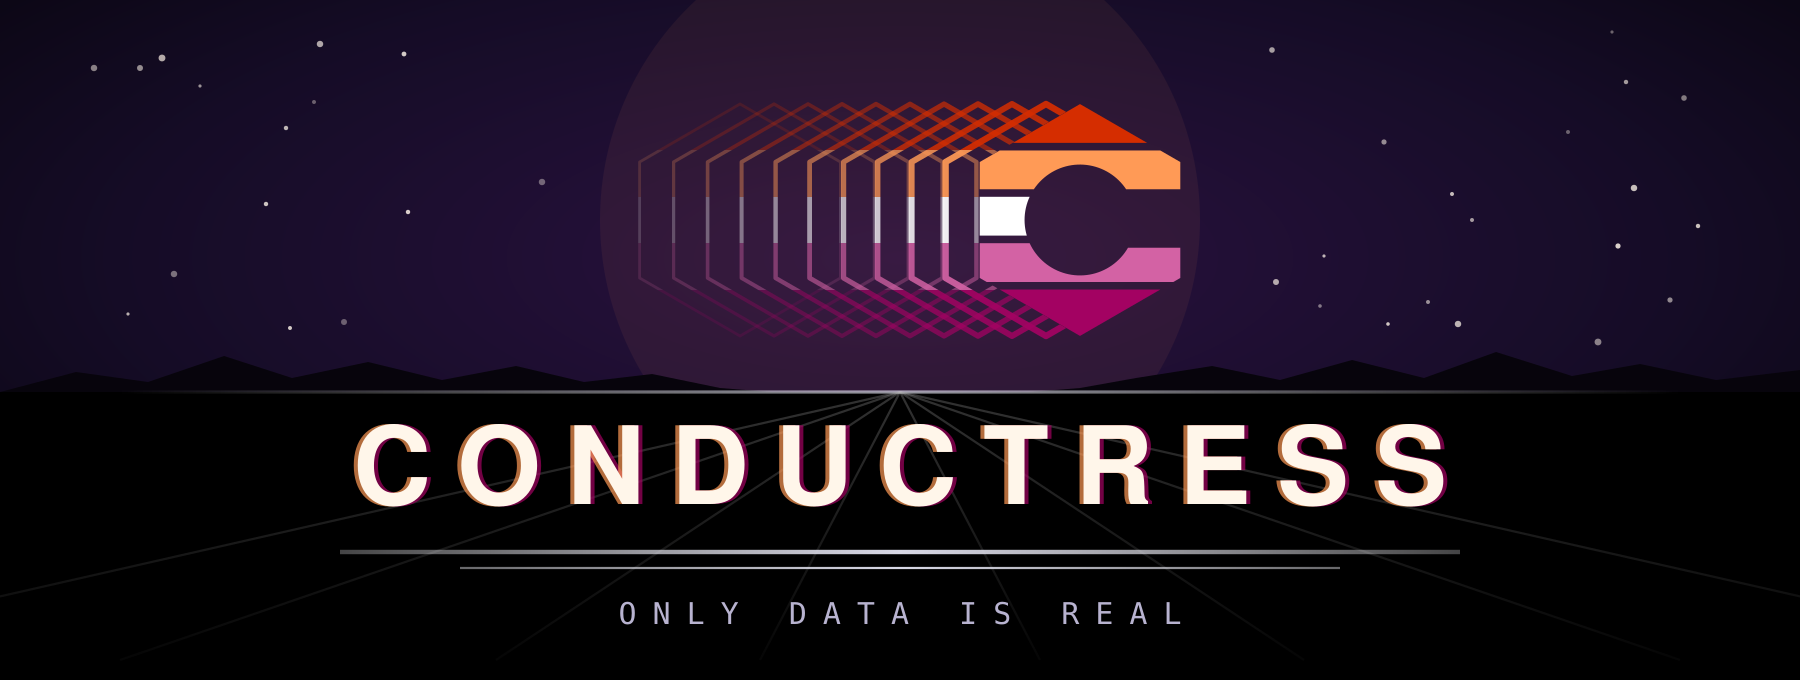
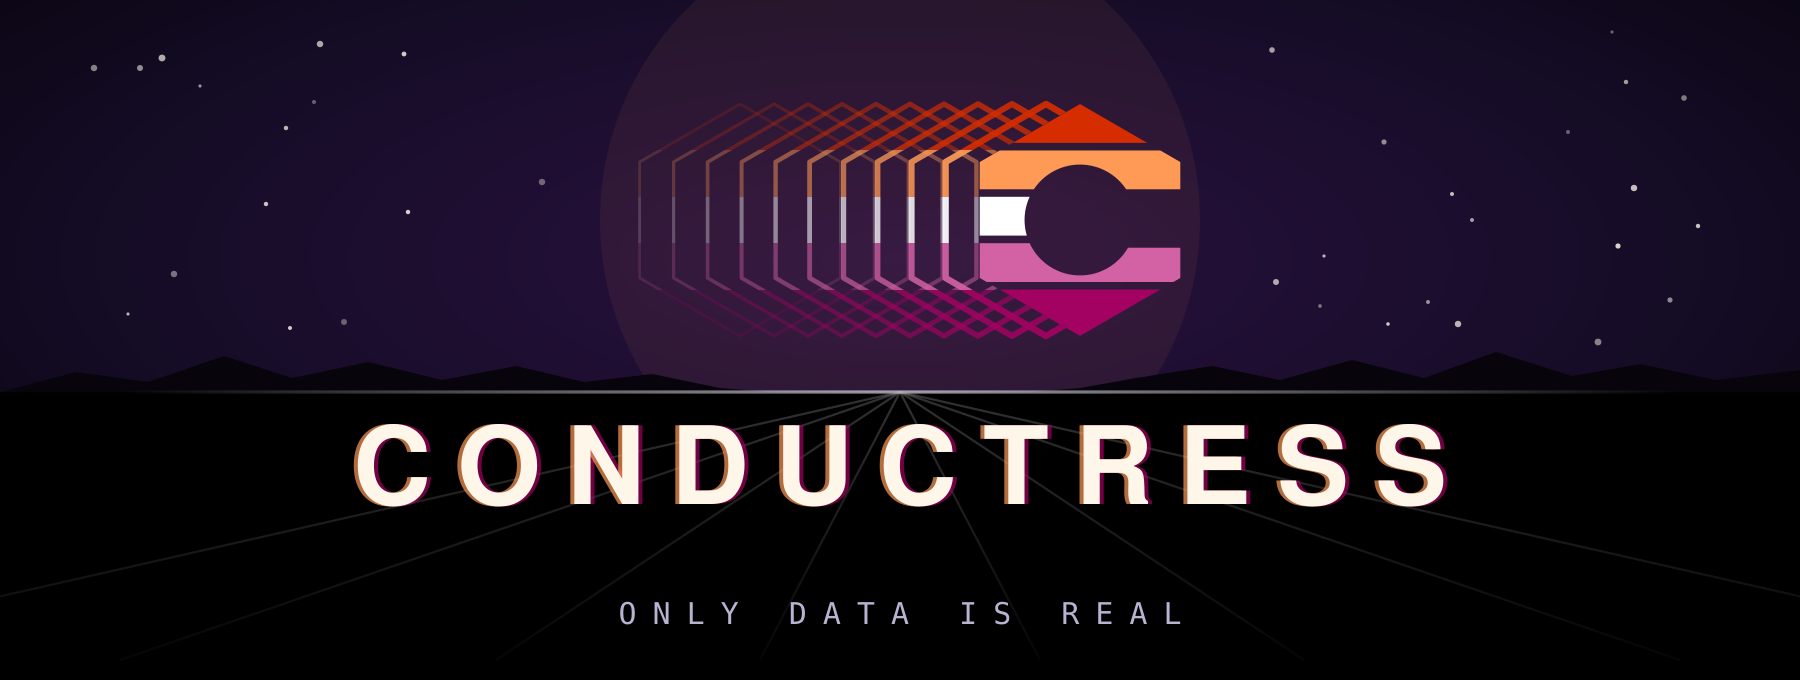
brand: drop the double rule from the hero and the sign-on
Over the grid horizon the two rule lines under the wordmark covered the
scene. They stay in the transparent, horizontal and one-colour lockups,
where there is no scene behind them. The sign-on loses its rule-wipe beat
at 4.10s (no score cue depended on it) so its resting frame still matches
the hero.

Changed region(s): [[0.1867, 0.8029, 0.8089, 0.8338]]

diff --git a/brand/motion/conductress-signon.html b/brand/motion/conductress-signon.html
@@ -16,7 +16,8 @@
              bells replace v1's white flash + drum kick.
        1.80  the C's seven stripes fill bottom-up like a VU meter, one tick each
        2.70  CONDUCTRESS slams in letter by letter (scale 3 -> 1, chromatic split -> converge)
-       4.10  double rule wipes outward from centre; subtitle types with a block cursor
+       4.10  subtitle types with a block cursor (the double rule was dropped: over the grid it
+             covered the scene; the static hero matches)
        5.60  one scanline flicker (CRT overlay only), then hold.  REPLAY button.
 
      AUDIO: synthesised live in WebAudio, five scores selectable before START (COSMOS default).
@@ -98,8 +99,6 @@
   #word .g:nth-child(13){animation-delay:3.90s}
   #word .r,#word .b{animation-name:split;animation-duration:.55s;animation-timing-function:ease-out;animation-delay:3.95s}
 
-  #rule1{transform-origin:450px 276px;animation-name:wipe;animation-duration:.5s;animation-timing-function:cubic-bezier(.2,.9,.2,1);animation-delay:4.10s}
-  #rule2{transform-origin:450px 284px;animation-name:wipe;animation-duration:.5s;animation-timing-function:cubic-bezier(.2,.9,.2,1);animation-delay:4.22s}
   #sub  {animation-name:typein;animation-duration:1.15s;animation-timing-function:steps(17,end);animation-delay:4.45s}
   #cursor{animation-name:typecur,blink;animation-duration:1.15s,.5s;animation-timing-function:steps(17,end),steps(1,end);animation-delay:4.45s,5.6s;animation-iteration-count:1,infinite;animation-fill-mode:forwards,none}
   #scan,#vignette{display:none}
@@ -340,8 +339,6 @@
   </g>
 
   <g id="subtitle">
-    <line id="rule1" class="anim" x1="170" y1="276" x2="730" y2="276" stroke="url(#ruleg)" stroke-width="2.2"/>
-    <line id="rule2" class="anim" x1="230" y1="284" x2="670" y2="284" stroke="url(#ruleg)" stroke-width="1.1"/>
     <text id="sub" class="anim" x="450" y="312" text-anchor="middle" font-family="'SF Mono',Menlo,Consolas,monospace" font-size="15" letter-spacing="8" fill="#c9a86e">ONLY DATA IS REAL</text>
     <rect id="cursor" class="anim" x="311" y="299" width="10" height="16" fill="#ffc94a" opacity="0"/>
   </g>

diff --git a/brand/tools/build.py b/brand/tools/build.py
@@ -469,7 +469,7 @@ def wordmark_group(name: str, p: str, word_d: str) -> str:
   </g>"""
 
 
-def subtitle_group(name: str, p: str, sub_d: str) -> str:
+def subtitle_group(name: str, p: str, sub_d: str, rules: bool = True) -> str:
     pal = PALETTES[name]
     if pal["kind"] == "mono":
         c = pal["color"]
@@ -479,9 +479,11 @@ def subtitle_group(name: str, p: str, sub_d: str) -> str:
     <line x1="290" y1="284" x2="610" y2="284" stroke="{c}" stroke-width="1.1"/>
     <path d="{sub_d}" fill="{c}"/>
   </g>"""
-    return f"""  <g id="subtitle">
+    # the hero omits the rules: over the grid horizon they cover the scene
+    rule_lines = "" if not rules else f"""
     <line x1="170" y1="276" x2="730" y2="276" stroke="url(#{p}-rule)" stroke-width="2.2"/>
-    <line x1="230" y1="284" x2="670" y2="284" stroke="url(#{p}-rule)" stroke-width="1.1"/>
+    <line x1="230" y1="284" x2="670" y2="284" stroke="url(#{p}-rule)" stroke-width="1.1"/>"""
+    return f"""  <g id="subtitle">{rule_lines}
     <path d="{sub_d}" fill="{pal['subtitle']}"/>
   </g>"""
 
@@ -549,7 +551,7 @@ def lockup_svg(name: str, opaque: bool, word_d: str, sub_d: str, trail: bool = T
 
 {wordmark_group(name, p, word_d)}
 
-{subtitle_group(name, p, sub_d)}
+{subtitle_group(name, p, sub_d, rules=not opaque)}
 </svg>
 """
 

diff --git a/brand/README.md b/brand/README.md
@@ -187,8 +187,11 @@ outlines; if you must set it live, use Helvetica Neue Bold, Helvetica Bold, or
 Arial Bold with the same tracking.
 
 The subtitle is ONLY DATA IS REAL in DejaVu Sans Mono at 15 units with 8 units
-of letter-spacing, gold, under a two-line rule that fades out at both ends. Any
-monospace face is acceptable when set live.
+of letter-spacing, gold. In the transparent lockups it sits under a two-line
+rule that fades out at both ends (or starts at the text edge, in the
+horizontal lockup). The hero and the sign-on carry no rule: over the grid
+horizon the lines covered the scene, and the subtitle holds its place without
+them. Any monospace face is acceptable when set live.
 
 The lockup does not use the mark in place of the letter C in the wordmark.
 That was tried; the wordmark's C stays a letter.
@@ -215,8 +218,8 @@ browser and PRESS START (browsers require a click before audio).
 The beats: the grid horizon draws itself from the vanishing point; the trail
 screams in from the left and the C snaps into place with a flare; the stripes
 fill bottom-up like a VU meter; CONDUCTRESS slams in letter by letter with the
-chromatic split converging to its resting fringe; the rule wipes and the
-subtitle types itself. The resting frame is the hero lockup.
+chromatic split converging to its resting fringe; the subtitle types itself.
+The resting frame is the hero.
 
 The score is synthesised live in WebAudio. The default is **COSMOS**: a sub
 drone, slow chorused pads on Lydian voicings, glass bells, long reverb, no
